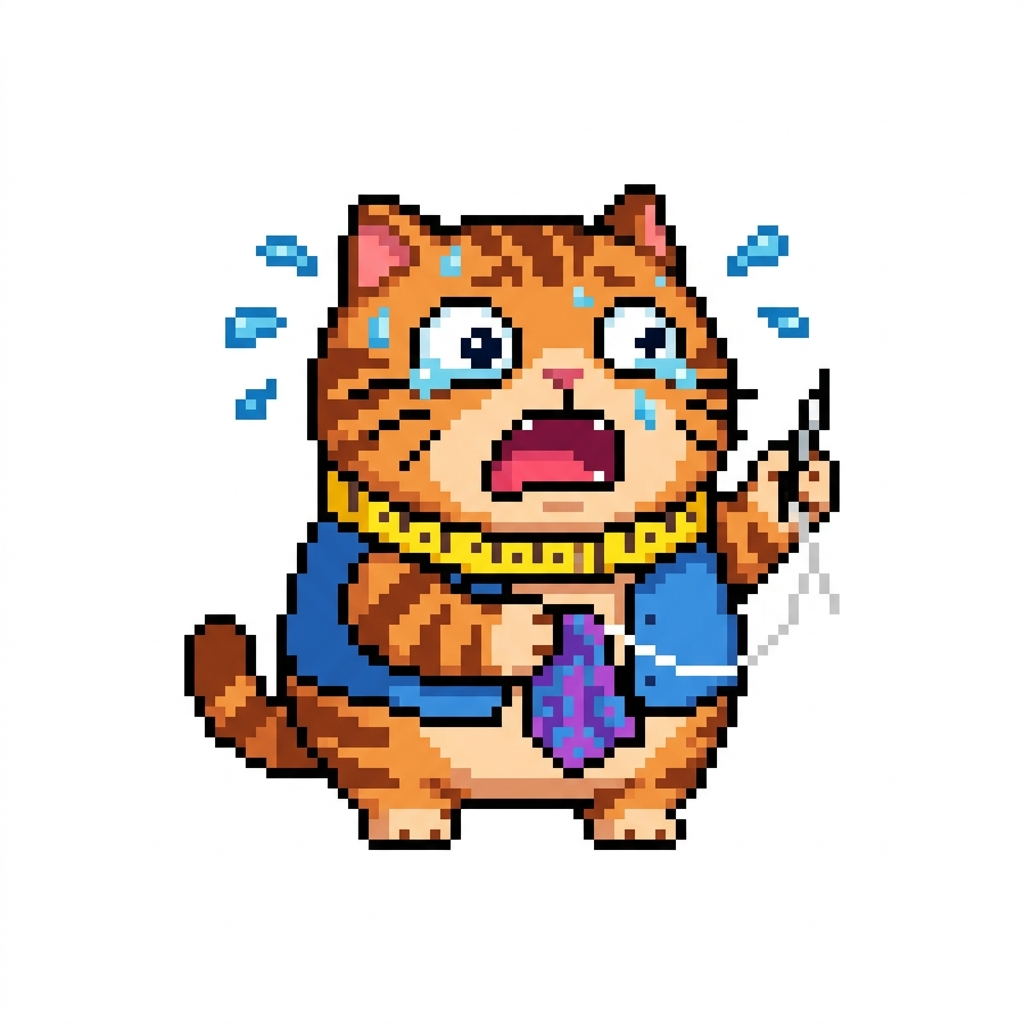
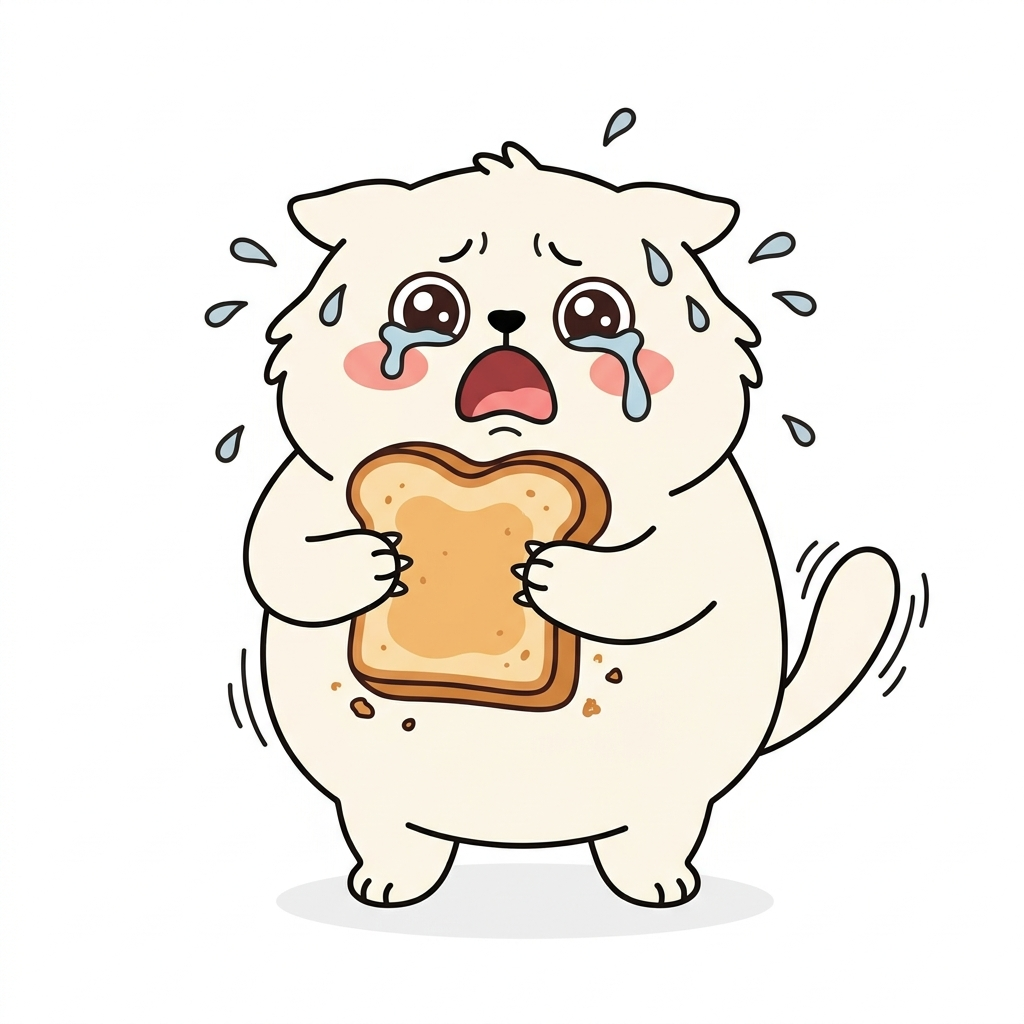
style: change cat box background to pink for contrast and build successfully

diff --git a/src/index.css b/src/index.css
@@ -11,6 +11,22 @@
   --animate-slide-up: slide-up 0.3s cubic-bezier(0.16, 1, 0.3, 1) forwards;
   --animate-fade-in: fade-in 0.25s ease-out forwards;
   --animate-scale-up: scale-up 0.28s cubic-bezier(0.34, 1.56, 0.64, 1) forwards;
+  --animate-bob: bob-up-down 2s ease-in-out infinite;
+  --animate-shake: shake 0.5s ease-in-out infinite;
+
+  @keyframes bob-up-down {
+    0%, 100% {
+      transform: translateY(0);
+    }
+    50% {
+      transform: translateY(-6px);
+    }
+  }
+  @keyframes shake {
+    0%, 100% { transform: translateX(0); }
+    25% { transform: translateX(-2px) rotate(-1deg); }
+    75% { transform: translateX(2px) rotate(1deg); }
+  }
 
   @keyframes slide-up {
     from {

diff --git a/src/components/DashboardView.tsx b/src/components/DashboardView.tsx
@@ -110,11 +110,13 @@ export default function DashboardView({ metrics, inventoryItems, onSellClick }: 
       {/* Tailor Cat Shopkeeper Counter Box */}
       <section className="bg-purple-100 rounded-2xl border-[3px] border-black p-4 shadow-neobrutal flex flex-col sm:flex-row gap-4 items-center select-none">
         {/* Cat Sprite Box */}
-        <div className="w-20 h-20 shrink-0 bg-white border-2 border-black rounded-xl p-1 flex items-center justify-center shadow-neobrutal-sm">
+        <div className="w-20 h-20 shrink-0 bg-pink-200 border-2 border-black rounded-xl p-1 flex items-center justify-center shadow-neobrutal-sm">
           <img 
             src={mascot.image} 
             alt={mascot.title} 
-            className="w-full h-full object-contain pixelated"
+            className={`w-full h-full object-contain pixelated ${
+              mascot.image.includes('sad') ? 'animate-shake' : 'animate-bob'
+            }`}
             style={{ imageRendering: 'pixelated' }}
           />
         </div>

diff --git a/contexts/progress-tracker.md b/contexts/progress-tracker.md
@@ -49,7 +49,7 @@ Update this file after every meaningful implementation change.
   - [x] Restructured main page layout in `src/App.tsx` as a Retro Software Window, including a header control bar, floating tab bar deck, and styled inputs.
   - [x] Revamped dashboard card metrics grid and stock lists into tactile Neobrutalist widgets inside `src/components/DashboardView.tsx`.
   - [x] Transformed sliding bottom sheets into centered Retro System Dialog Modals for transactions (`TransactionForm.tsx`), shipments (`ShipmentForm.tsx`), sales (`SellSheet.tsx`), and error alerts.
-  - [x] Generated custom 8-bit retro pixel art assets and integrated the **Tailor Cat** shopkeeper mascot commentator with amped-up Dhakaiya merchant slang in Bengali (`আপু`, `বউনি`, `লাল বাতি`, `ফতুর`, `ক্যালাও`) reacting dynamically on the Metrics Dashboard.
+  - [x] Integrated the custom-generated **Kawaii Toast Cat** shopkeeper mascot, featuring dynamic CSS keyframe animations (bobbing / shaking states) and amped-up Dhakaiya merchant slang in Bengali (`আপু`, `বউনি`, `লাল বাতি`, `ফতুর`, `ক্যালাও`) reacting dynamically on the Metrics Dashboard.
   - [x] Verified full unit test execution and clean production compilation.
 
 ## In Progress